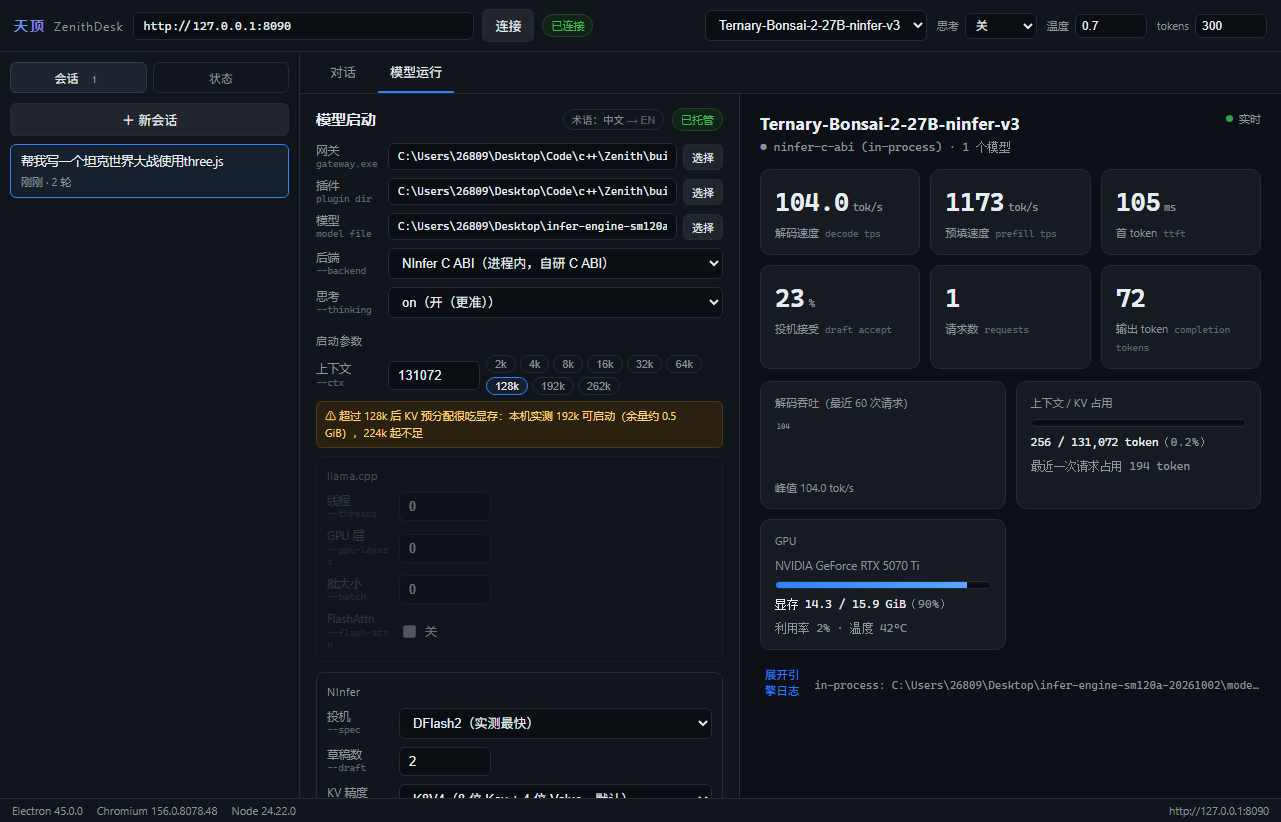
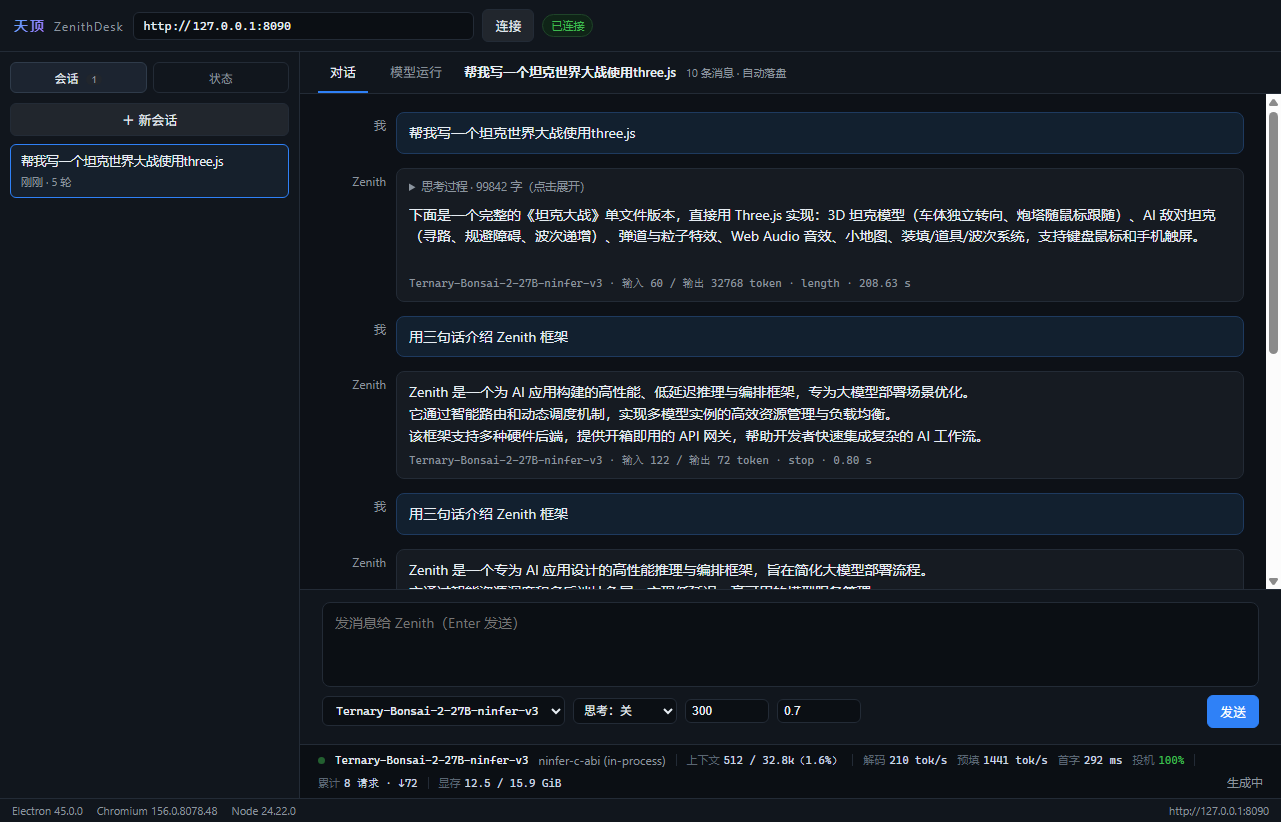
feat(chat): 改成 DSH 的聊天布局 —— 输入框旁选模型 + 底部模型状态条
原来模型/思考/温度/ tokens 挤在顶栏，和"正在聊什么"离得很远。

- 输入框下方一行：模型下拉（/v1/models）、思考（关/默认/开）、max tokens、
  温度、发送/停止 —— 换模型不用回顶栏
- 聊天区底部新增状态条（ChatStatusBar）：模型名 · 后端 · 上下文占用
  （KV used/cap + %，>85% 转黄）· 解码/预填 tok/s · 首字延迟 · 投机接受率 ·
  累计请求与输出 token · 显存（>92% 转黄）· 生成中/空闲
- 指标复用 App 统一轮询（status/metrics/gpu 一起拉，gpu 走 nvidia-smi），
  不再让每个组件各自开定时器
- 顶栏精简为：品牌 + 网关地址 + 连接状态
- 三段式高度约束（view-bar / 消息区 / 输入区+状态条），状态条不再被挤出视口
- 中英三态跟随：状态条同样切换（上下文 / ctx、解码 / decode …）

实测：上下文 512/32.8k(1.6%)、解码 210 tok/s、预填 1441 tok/s、首字 292 ms、
     投机 100%、显存 12.5/15.9 GiB

diff --git a/src/components/ChatStatusBar.jsx b/src/components/ChatStatusBar.jsx
@@ -1,0 +1,114 @@
+import { fmtNum, pick } from '../metrics.js'
+import { normLang, t } from '../i18n.js'
+
+/** 一个小格子：标签 + 值，过窄时省略 */
+function Chip({ label, value, tone, title, lang }) {
+  return (
+    <span className={`chipinfo ${tone || ''}`} title={title || ''}>
+      <span className="chipinfo-label">{label}</span>
+      <span className="chipinfo-value">{lang === 'en' ? value.en || value.zh || value : value.zh || value}</span>
+    </span>
+  )
+}
+
+/**
+ * 聊天页底部状态条：把和模型相关的一切压成一行，随时能看。
+ * 数据来自 /zenith/ai/status + /metrics + nvidia-smi（App 统一轮询后传下来）。
+ */
+export default function ChatStatusBar({ status, metrics, gpu, models, connected, lang: langProp }) {
+  const lang = normLang(langProp)
+  const eng = status?.engine || {}
+  const counters = status?.counters || {}
+
+  const decode = eng.last_decode_tps || pick(metrics, 'zenith_ai_decode_tps') || 0
+  const prefill = eng.last_prefill_tps || pick(metrics, 'zenith_ai_prefill_tps') || 0
+  const ttft = eng.last_ttft_ms || pick(metrics, 'zenith_ai_ttft_ms') || 0
+
+  const kvUsed = Number(eng.kv_used_tokens) || 0
+  const kvCap = Number(eng.kv_capacity_tokens) || 0
+  const kvPct = kvCap > 0 ? (kvUsed / kvCap) * 100 : 0
+  const lastCtx = Number(eng.last_context_tokens) || 0
+
+  const accept =
+    eng.draft_total > 0 ? Math.round((eng.draft_accepted / eng.draft_total) * 100) : null
+  const pending =
+    Number(pick(metrics, 'zenith_http_inflight') || 0) > 0 ? 'busy' : 'idle'
+  const model = status?.models?.[0] || (models.length ? models[0].id : '—')
+
+  const sep = <span className="chipinfo-sep" />
+
+  return (
+    <div className="chat-status">
+      <span className={`live-dot ${connected ? '' : 'live-dot-off'}`} />
+      <span className="cs-model" title={model}>
+        {model}
+      </span>
+      <span className="muted">{status?.backend || t(lang, '未连接', 'offline')}</span>
+
+      {sep}
+      <Chip
+        lang={lang}
+        label={t(lang, '上下文', 'ctx')}
+        value={{
+          zh: kvCap > 0 ? `${fmtNum(kvUsed)} / ${fmtNum(kvCap)}（${kvPct.toFixed(1)}%）` : lastCtx ? `${lastCtx} token` : '—',
+          en: kvCap > 0 ? `${fmtNum(kvUsed)}/${fmtNum(kvCap)} (${kvPct.toFixed(1)}%)` : lastCtx ? `${lastCtx} tok` : '—',
+        }}
+        tone={kvPct > 85 ? 'chip-warn' : ''}
+        title={t(lang, 'KV 池实时占用 / 容量', 'live KV occupancy / capacity')}
+      />
+
+      {sep}
+      <Chip
+        lang={lang}
+        label={t(lang, '解码', 'decode')}
+        value={{ zh: decode ? `${decode.toFixed(0)} tok/s` : '—', en: decode ? `${decode.toFixed(0)} tok/s` : '—' }}
+      />
+      <Chip
+        lang={lang}
+        label={t(lang, '预填', 'prefill')}
+        value={{ zh: prefill ? `${fmtNum(prefill)} tok/s` : '—', en: prefill ? `${fmtNum(prefill)} tok/s` : '—' }}
+      />
+      <Chip
+        lang={lang}
+        label={t(lang, '首字', 'ttft')}
+        value={{ zh: ttft ? `${Math.round(ttft)} ms` : '—', en: ttft ? `${Math.round(ttft)} ms` : '—' }}
+      />
+      <Chip
+        lang={lang}
+        label={t(lang, '投机', 'draft')}
+        value={{ zh: accept === null ? '—' : `${accept}%`, en: accept === null ? '—' : `${accept}%` }}
+        tone={accept !== null && accept > 60 ? 'chip-good' : ''}
+      />
+
+      {sep}
+      <Chip
+        lang={lang}
+        label={t(lang, '累计', 'total')}
+        value={{
+          zh: `${fmtNum(counters.requests_total || 0)} 请求 · ↓${fmtNum(counters.completion_tokens_total || 0)}`,
+          en: `${fmtNum(counters.requests_total || 0)} req · ↓${fmtNum(counters.completion_tokens_total || 0)}`,
+        }}
+        title={t(lang, '累计请求数 / 输出 token', 'total requests / completion tokens')}
+      />
+
+      {gpu?.available && (
+        <>
+          {sep}
+          <Chip
+            lang={lang}
+            label={t(lang, '显存', 'vram')}
+            value={{
+              zh: `${(gpu.usedMB / 1024).toFixed(1)} / ${(gpu.totalMB / 1024).toFixed(1)} GiB`,
+              en: `${(gpu.usedMB / 1024).toFixed(1)}/${(gpu.totalMB / 1024).toFixed(1)} GiB`,
+            }}
+            tone={gpu.totalMB && gpu.usedMB / gpu.totalMB > 0.92 ? 'chip-warn' : ''}
+            title={`${gpu.name} · ${t(lang, '利用率', 'util')} ${gpu.utilPct}% · ${gpu.tempC}°C`}
+          />
+        </>
+      )}
+
+      <span className="cs-spacer" />
+      <span className="muted">{pending === 'busy' ? t(lang, '生成中', 'generating') : t(lang, '空闲', 'idle')}</span>
+    </div>
+  )
+}

diff --git a/src/components/ChatPanel.jsx b/src/components/ChatPanel.jsx
@@ -1,5 +1,6 @@
 import { useEffect, useRef, useState } from 'react'
 import { normLang, t } from '../i18n.js'
+import ChatStatusBar from './ChatStatusBar.jsx'
 
 function Reasoning({ text, lang, defaultOpen = false }) {
   const [open, setOpen] = useState(defaultOpen)
@@ -15,7 +16,20 @@ function Reasoning({ text, lang, defaultOpen = false }) {
   )
 }
 
-export default function ChatPanel({ messages, streamingId, onSend, onCancel, disabled, lang: langProp }) {
+export default function ChatPanel({
+  messages,
+  streamingId,
+  onSend,
+  onCancel,
+  disabled,
+  lang: langProp,
+  models = [],
+  settings,
+  onSave,
+  status,
+  metrics,
+  gpu,
+}) {
   const lang = normLang(langProp)
   const [input, setInput] = useState('')
   const scroller = useRef(null)
@@ -67,7 +81,7 @@ export default function ChatPanel({ messages, streamingId, onSend, onCancel, dis
                 <div className="msg-warn">
                   {t(
                     lang,
-                    `⚠ 模型把 ${m.meta?.completion ?? '?'} 个 token 全用在思考上，正文本轮没有产出（finish=${m.meta?.finish || 'length'}）。把 tokens 调大，或把顶栏「思考」设为关。`,
+                    `⚠ 模型把 ${m.meta?.completion ?? '?'} 个 token 全用在思考上，正文本轮没有产出（finish=${m.meta?.finish || 'length'}）。把 tokens 调大，或在输入框旁把「思考」设为关。`,
                     `⚠ All ${m.meta?.completion ?? '?'} tokens went into reasoning, so no answer text was produced (finish=${m.meta?.finish || 'length'}). Raise tokens or switch thinking off.`,
                   )}
                 </div>
@@ -103,7 +117,57 @@ export default function ChatPanel({ messages, streamingId, onSend, onCancel, dis
           }}
           rows={3}
         />
-        <div className="composer-actions">
+
+        {/* 模型 / 思考 / tokens 就放在输入框下方左侧（DSH 同款位置） */}
+        <div className="composer-row">
+          <select
+            className="input input-model"
+            value={settings?.model || ''}
+            onChange={(e) => onSave?.({ model: e.target.value })}
+            title={t(lang, '选择模型', 'select model')}
+          >
+            <option value="">{t(lang, '默认模型', 'default model')}</option>
+            {models.map((m) => (
+              <option key={m.id} value={m.id}>
+                {m.id}
+              </option>
+            ))}
+          </select>
+
+          <select
+            className="input input-sm"
+            value={settings?.thinking ?? 0}
+            onChange={(e) => onSave?.({ thinking: Number(e.target.value) })}
+            title={t(lang, '本次请求是否思考', 'thinking for this request')}
+          >
+            <option value={-1}>{t(lang, '思考：关', 'think off')}</option>
+            <option value={0}>{t(lang, '思考：默认', 'think default')}</option>
+            <option value={1}>{t(lang, '思考：开', 'think on')}</option>
+          </select>
+
+          <input
+            className="input input-sm"
+            type="number"
+            min="1"
+            step="64"
+            value={settings?.maxTokens ?? 1024}
+            onChange={(e) => onSave?.({ maxTokens: Number(e.target.value) })}
+            title={t(lang, '本次最大输出 token', 'max output tokens')}
+          />
+
+          <input
+            className="input input-sm"
+            type="number"
+            min="0"
+            max="2"
+            step="0.1"
+            value={settings?.temperature ?? 0.7}
+            onChange={(e) => onSave?.({ temperature: Number(e.target.value) })}
+            title={t(lang, '温度 temperature', 'temperature')}
+          />
+
+          <span className="cs-spacer" />
+
           {streamingId ? (
             <button className="btn btn-danger" onClick={onCancel}>
               {t(lang, '停止', 'Stop')}
@@ -115,6 +179,15 @@ export default function ChatPanel({ messages, streamingId, onSend, onCancel, dis
           )}
         </div>
       </div>
+
+      <ChatStatusBar
+        status={status}
+        metrics={metrics}
+        gpu={gpu}
+        models={models}
+        connected={!disabled}
+        lang={lang}
+      />
     </div>
   )
 }

diff --git a/src/App.jsx b/src/App.jsx
@@ -30,6 +30,7 @@ export default function App() {
   const [models, setModels] = useState([])
   const [status, setStatus] = useState(null)
   const [metrics, setMetrics] = useState({})
+  const [gpu, setGpu] = useState({ available: false })
   const [connError, setConnError] = useState('')
 
   const [sessions, setSessions] = useState([])
@@ -99,10 +100,16 @@ export default function App() {
   const refresh = useCallback(async (url) => {
     if (!url) return
     try {
-      const [m, st, mt] = await Promise.all([api.models(url), api.status(url), api.metrics(url)])
+      const [m, st, mt, g] = await Promise.all([
+        api.models(url),
+        api.status(url),
+        api.metrics(url),
+        api.gpu().catch(() => ({ available: false })),
+      ])
       setModels(m.data || [])
       setStatus(st)
       setMetrics(parseMetrics(mt))
+      setGpu(g || { available: false })
       setConnError('')
     } catch (e) {
       setConnError(String(e?.message || e))
@@ -341,58 +348,7 @@ export default function App() {
           </span>
         </div>
 
-        <div className="controls">
-          <select
-            className="input"
-            value={settings.model}
-            onChange={(e) => saveSettings({ model: e.target.value })}
-          >
-            <option value="">{t(lang, '默认模型', 'default model')}</option>
-            {models.map((m) => (
-              <option key={m.id} value={m.id}>
-                {m.id}
-              </option>
-            ))}
-          </select>
-
-          <label className="ctl" title="思考模式：关 / 默认 / 开（单次请求覆盖启动默认）">
-            {t(lang, '思考', 'thinking')}
-            <select
-              className="input input-sm"
-              value={settings.thinking}
-              onChange={(e) => saveSettings({ thinking: Number(e.target.value) })}
-            >
-              <option value={-1}>{t(lang, '关', 'off')}</option>
-              <option value={0}>{t(lang, '默认', 'default')}</option>
-              <option value={1}>{t(lang, '开', 'on')}</option>
-            </select>
-          </label>
-
-          <label className="ctl" title="temperature">
-            {t(lang, '温度', 'temp')}
-            <input
-              className="input input-sm"
-              type="number"
-              step="0.1"
-              min="0"
-              max="2"
-              value={settings.temperature}
-              onChange={(e) => saveSettings({ temperature: Number(e.target.value) })}
-            />
-          </label>
-
-          <label className="ctl" title="max_tokens">
-            tokens
-            <input
-              className="input input-sm"
-              type="number"
-              step="64"
-              min="1"
-              value={settings.maxTokens}
-              onChange={(e) => saveSettings({ maxTokens: Number(e.target.value) })}
-            />
-          </label>
-        </div>
+        <div className="controls" />
       </header>
 
       <div className="body">
@@ -464,6 +420,12 @@ export default function App() {
               onCancel={cancel}
               disabled={!connected}
               lang={lang}
+              models={models}
+              settings={settings}
+              onSave={saveSettings}
+              status={status}
+              metrics={metrics}
+              gpu={gpu}
             />
           ) : (
             <ModelView settings={settings} onSave={saveSettings} onStarted={() => refresh(settings.baseUrl)} />

diff --git a/src/styles.css b/src/styles.css
@@ -582,3 +582,46 @@ body {
   border: 1px solid #4a3a12;
   border-radius: 6px;
 }
+
+/* ================= 聊天输入区：模型选择 + 底部状态条（DSH 风格） ================= */
+.composer { display: flex; flex-direction: column; gap: 8px; }
+.composer-row { display: flex; align-items: center; gap: 8px; flex-wrap: wrap; }
+.input-model {
+  max-width: 260px;
+  font-size: 11.5px;
+  font-family: var(--mono);
+}
+.cs-spacer { flex: 1; }
+
+.chat-status {
+  display: flex;
+  align-items: center;
+  gap: 10px;
+  padding: 6px 18px;
+  font-size: 11px;
+  color: var(--muted);
+  border-top: 1px solid var(--border);
+  background: #0b0f14;
+  overflow-x: auto;
+  white-space: nowrap;
+}
+.cs-model { color: var(--text); font-family: var(--mono); font-size: 11px; }
+.live-dot-off { background: var(--bad); box-shadow: none; animation: none; }
+.chipinfo-sep { width: 1px; height: 12px; background: var(--border); flex: 0 0 1px; }
+.chipinfo { display: inline-flex; align-items: baseline; gap: 4px; }
+.chipinfo-label { color: #5b6673; }
+.chipinfo-value { color: #c9d5e3; font-family: var(--mono); }
+.chipinfo.chip-good .chipinfo-value { color: var(--ok); }
+.chipinfo.chip-warn .chipinfo-value { color: var(--warn); }
+
+/* 三段式高度：view-bar(auto) / 消息区(1fr) / 输入区+状态条(auto) */
+.main { display: flex; flex-direction: column; min-height: 0; overflow: hidden; }
+.chat { flex: 1 1 auto; min-height: 0; display: flex; flex-direction: column; }
+.chat .messages { flex: 1 1 auto; min-height: 0; overflow-y: auto; }
+.composer { flex: 0 0 auto; }
+.chat-status { flex: 0 0 auto; }
+
+/* 状态条：内容多时换行而不是横向滚动；思考下拉给足宽度 */
+.chat-status { flex-wrap: wrap; white-space: normal; overflow-x: visible; row-gap: 4px; }
+.composer-row select[title*="思考"] { min-width: 104px; }
+.composer-row .input-sm { width: 84px; }

diff --git a/README.md b/README.md
@@ -125,6 +125,13 @@ libssl-3-x64.dll  libcrypto-3-x64.dll  zlib1.dll
 
 （来自 `C:\msys64\mingw64\bin`；放好后网关可脱离 msys64 独立运行。）
 
+## 聊天页布局（DSH 风格）
+
+- **输入框下方一行**：模型选择、思考开关、max tokens、温度、发送/停止 —— 换模型不用回顶栏
+- **最底部状态条**：模型名 · 后端 · 上下文占用（KV used/cap + %）· 解码/预填 tok/s ·
+  首字延迟 · 投机接受率 · 累计请求与输出 token · 显存占用 · 生成中/空闲
+- 状态条随中英切换一起变（`上下文 / ctx`、`解码 / decode` …），超过 85% KV 或 92% 显存转黄
+
 ## 术语语言：三态
 
 模型页右上角一个按钮循环切换，选择存在 `settings.termLang`：
